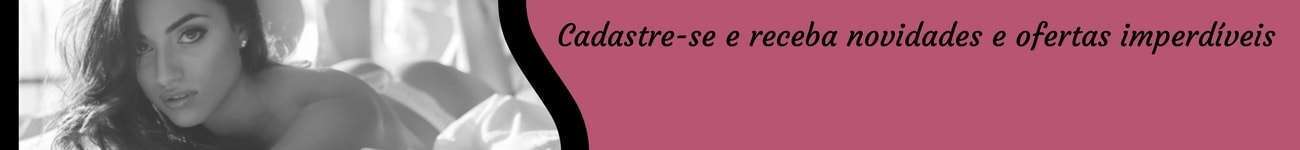
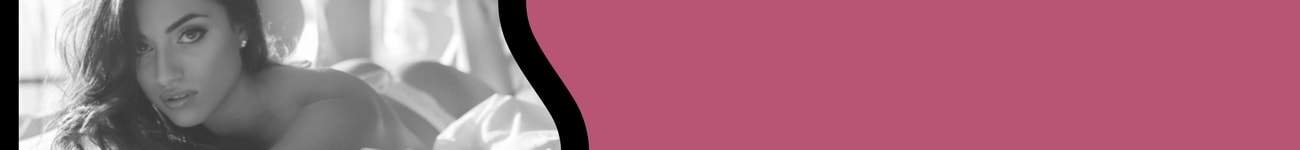
imagem sem título

Changed region(s): [[0.4308, 0.1333, 0.9846, 0.3467]]

diff --git a/htm/Home.htm b/htm/Home.htm
@@ -143,25 +143,30 @@
 
 <div class="row">
   <div id="newsPage" class="col-sm-12">
-    <span>Torne-se membro do nosso clube de assinantes e receba novidades diretamente em seu e-mail. &Eacute; r&aacute;pido, f&aacute;cil e gratuito!</span><br><br>
-
-    <form class="form-inline" id="formPopup" name=FormNewsletter method=GET action="Newsletter.asp" onSubmit="return ValidaNew();">
-
-      <input type=hidden name=IDLoja value="<idloja>">
-      <input type=hidden name=Y value="<Y>">
-      <input type=hidden name=FormatoHTML value="True">
-      <input type=hidden name=EnviarAssinante value="Enviar">
-
-      <label class="sr-only" for="inlineFormInput">Nome</label>
-      <input type="text" class="form-control mb-2 mr-sm-2 mb-sm-0" id="inlineFormInput" required name=NomeAssinante placeholder="Nome">
-
-      <label class="sr-only" for="inlineFormInputGroup">E-mail</label>
-      <div class="input-group mb-2 mr-sm-2 mb-sm-0">
-        <input type="text" class="form-control" id="inlineFormInputGroup" required name=Email placeholder="E-mail">
+    <div class="col-sm-6">
+      &nbsp;
+    </div>
+    <div class="col-sm-6">
+      <div class="row">
+        <span class="newsTittle">Cadastre-se e recebe novidades e ofertas imperdíveis!</span>  
       </div>
 
-      <button type="submit" class="btn btn-primary">Cadastrar</button>
-    </form>
+      <div class="row">
+        <form class="form-inline" id="formPopup" name=FormNewsletter method=GET action="Newsletter.asp" onSubmit="return ValidaNew();">
+          <input type=hidden name=IDLoja value="<idloja>">
+          <input type=hidden name=Y value="<Y>">
+          <input type=hidden name=FormatoHTML value="True">
+          <input type=hidden name=EnviarAssinante value="Enviar">
+
+          <label class="sr-only" for="inlineFormInput">Nome</label>
+          <input type="text" class="form-control mb-2 mr-sm-2 mb-sm-0" id="inlineFormInput" required name=NomeAssinante placeholder="Nome">
+
+          <label class="sr-only" for="inlineFormInputGroup">E-mail</label>
+          <input type="text" class="form-control" id="inlineFormInputGroup" required name=Email placeholder="E-mail">
+          <button type="submit" class="btn btn-primary">Cadastrar</button>
+        </form>
+      </div>      
+    </div>
   </div>
 </div>
 

diff --git a/htm/css/style.css b/htm/css/style.css
@@ -280,3 +280,7 @@ li.dropdown {
 #newsPage {
   background-image: url('https://www.rumo.com.br/lojas/00034777/images/newsletter-page-min.jpg');
 }
+
+.newsTittle{
+  font-family: 'Tangerine';
+}
